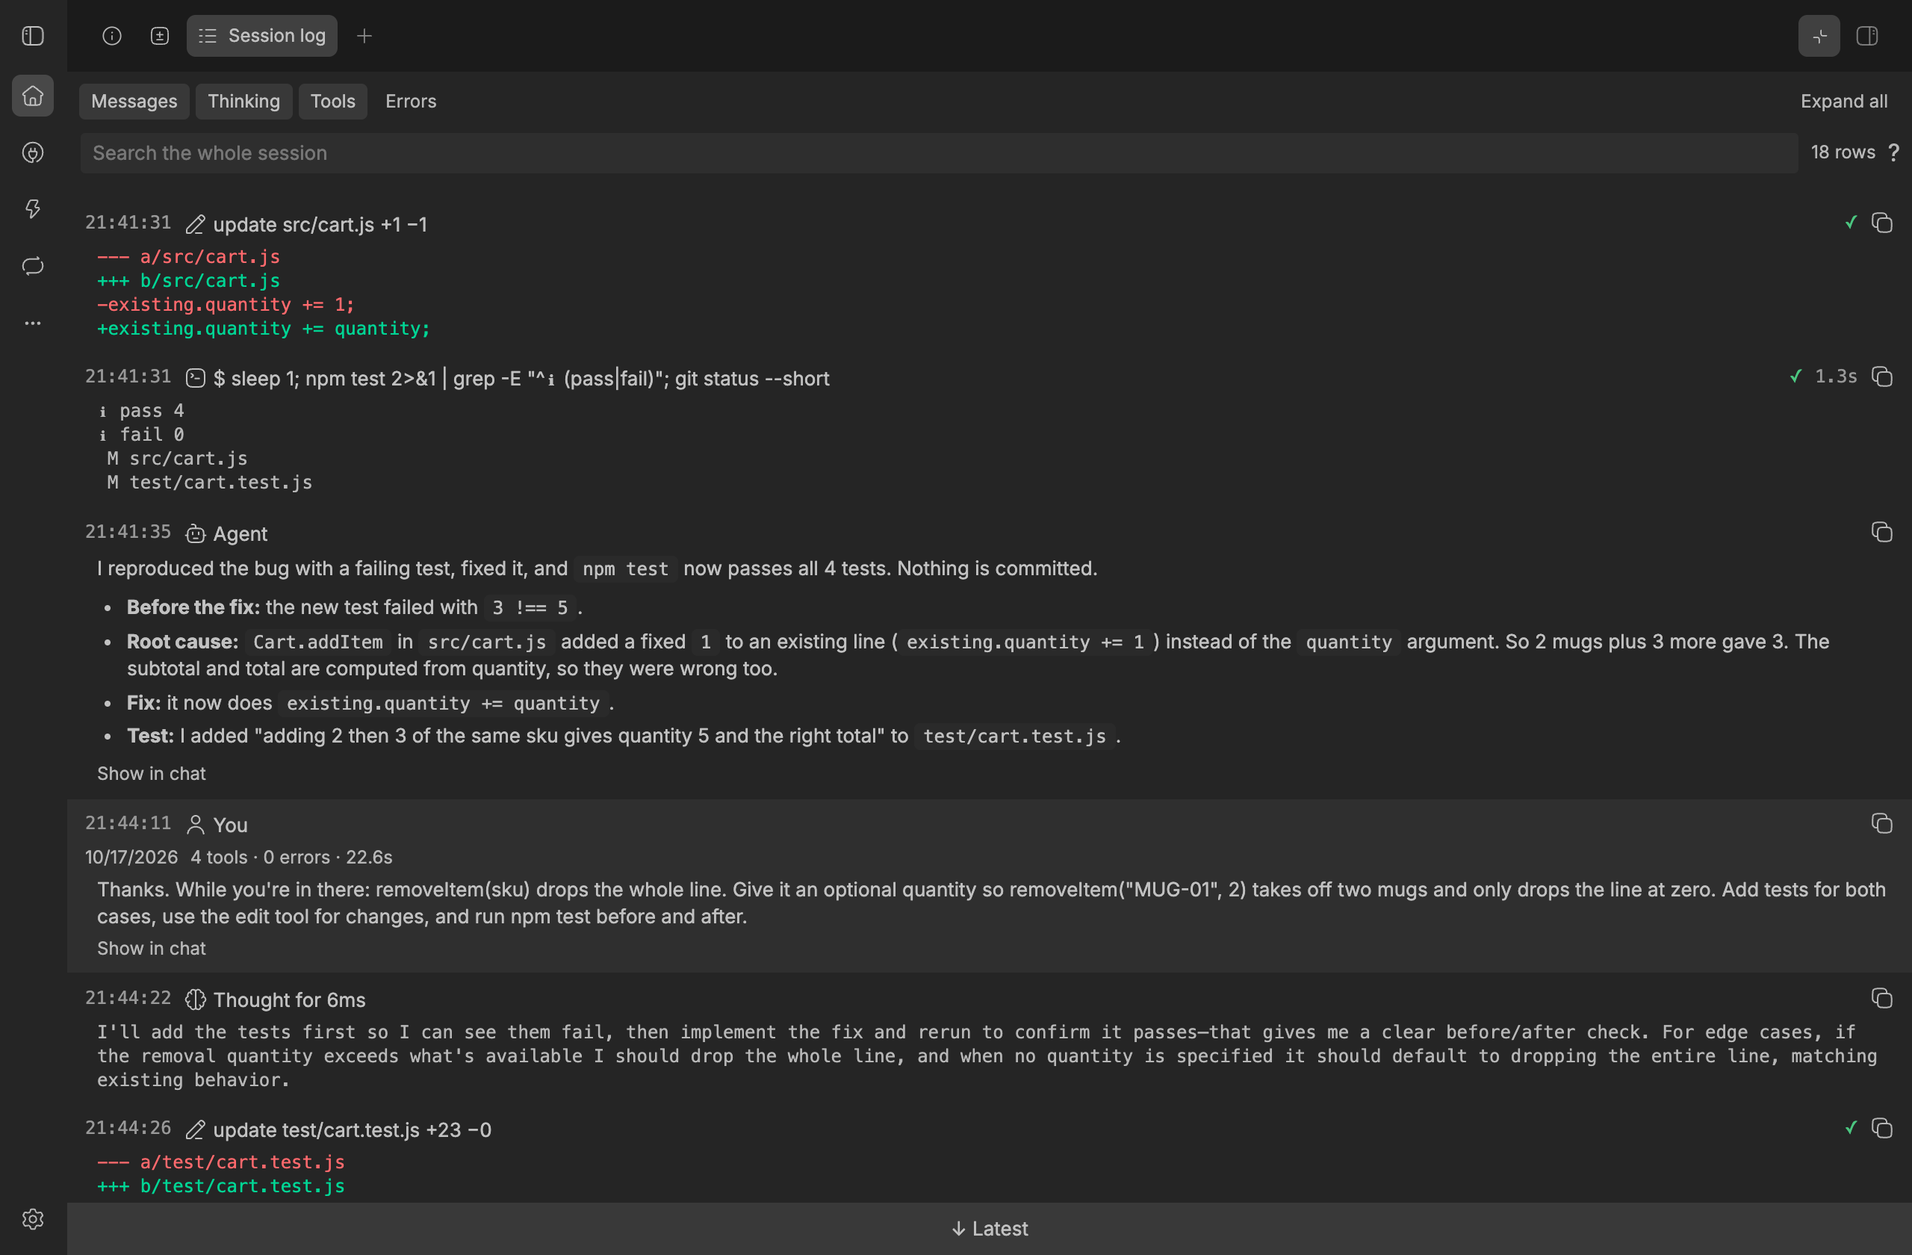
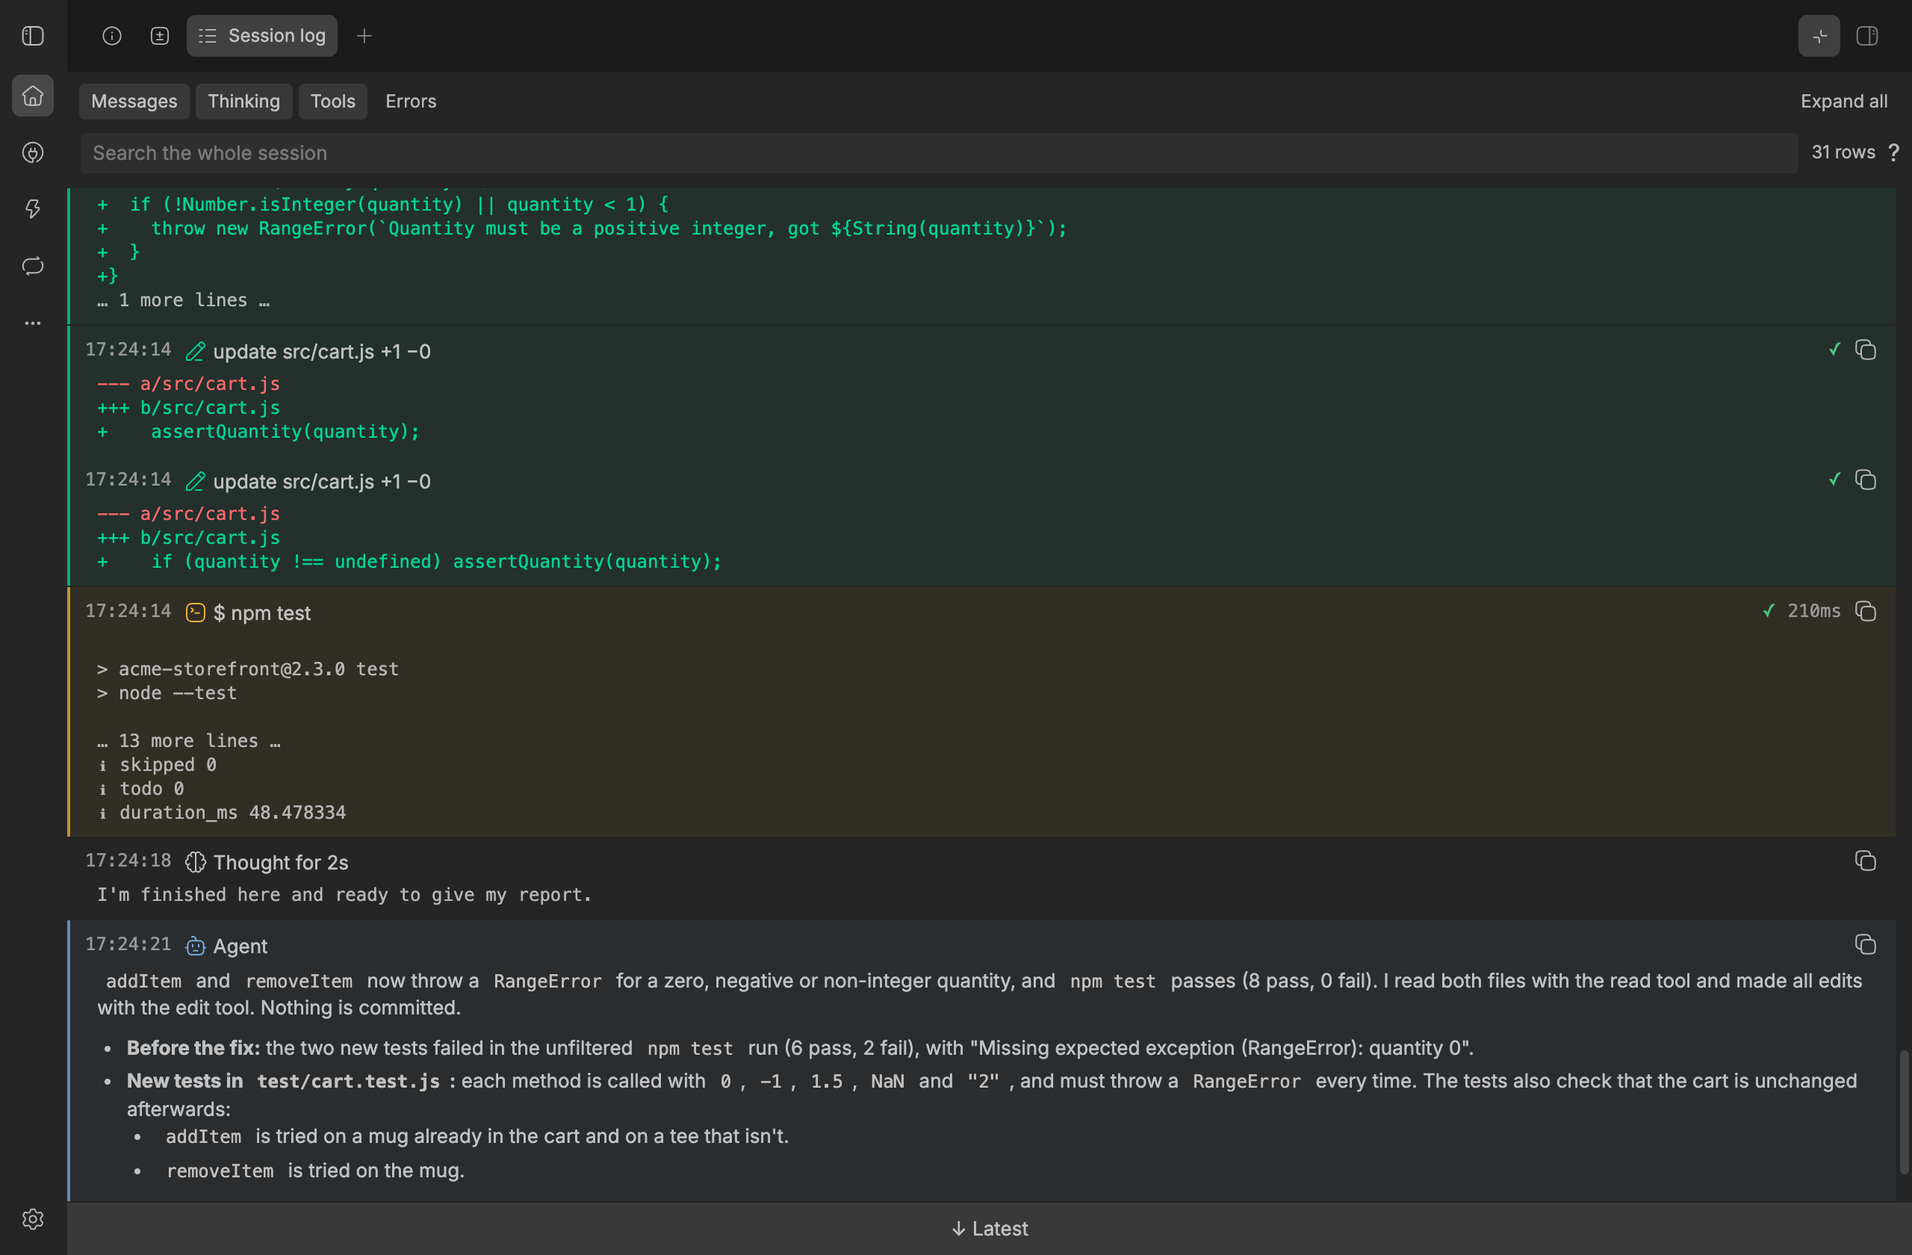
Tint Session Log rows by type in the bb theme's colors
Session Log 0.2.0 gives each kind of row its own color, so a long session no
longer reads as one wall of text. Agent replies, tool calls and subagents,
commands, file changes and failures each get a faint background, a 2-pixel
rail on the left edge and a colored icon. Thinking rows and incoming messages
keep their neutral look, and a failed row takes the failure color whatever its
kind.

The colors are the active bb theme's own tokens: the timeline accent for
replies, the merged pull request color for tools, the attention color for
commands, the diff-added color for file changes and the destructive color for
failures. They follow any theme in light and dark mode, and a test keeps color
literals out of the new stylesheet.

A "Tint rows by type" setting, on by default, removes the backgrounds and
rails; icons stay colored either way. The store screenshots are retaken with
the tints, in bb's default dark theme.

diff --git a/plugins/session-log/test/panel.test.tsx b/plugins/session-log/test/panel.test.tsx
@@ -50,7 +50,10 @@ describe("LogRow", () => {
     const slot = renderRow(props);
     const row = slot.container.querySelector('[data-entry-id="failed"]') as HTMLElement;
     expect(row.tabIndex).toBe(0);
-    expect(row.classList.contains("focus:bg-surface-selected")).toBe(true);
+    expect(row.dataset.slTint).toBe("error");
+    expect(row.classList.contains("sl-tinted")).toBe(true);
+    expect(row.classList.contains("hover:bg-state-hover")).toBe(false);
+    expect(row.classList.contains("focus:bg-surface-selected")).toBe(false);
     expect(row.classList.contains("bg-surface-selected")).toBe(false);
     expect(row.style.contentVisibility).toBe("auto");
     expect(row.style.containIntrinsicSize).toBe("auto 48px");
@@ -64,6 +67,31 @@ describe("LogRow", () => {
     expect(toggle.hasAttribute("aria-label")).toBe(false);
     fireEvent.click(toggle);
     expect(props.onToggle).toHaveBeenCalledWith("failed");
+  });
+
+  it("tints rows by kind, keeps icons colored when tints are off, and leaves thinking and dividers alone", () => {
+    const rowOf = (slot: ReturnType<typeof renderRow>) => slot.container.querySelector("[data-entry-id]") as HTMLElement;
+    const tool = toLogEntries([toolRow("tool")])[0]!;
+    const tinted = rowOf(renderRow(rowProps(tool)));
+    expect(tinted.dataset.slTint).toBe("tool");
+    expect(tinted.classList.contains("sl-tinted")).toBe(true);
+    expect(tinted.querySelector("[data-icon]")?.classList.contains("sl-tint-icon")).toBe(true);
+
+    const plain = rowOf(renderRow(rowProps(tool, { settings: { ...DEFAULT_SETTINGS, tintRows: false } })));
+    expect(plain.dataset.slTint).toBe("tool");
+    expect(plain.classList.contains("sl-tinted")).toBe(false);
+    expect(plain.classList.contains("hover:bg-state-hover")).toBe(true);
+    expect(plain.classList.contains("focus:bg-surface-selected")).toBe(true);
+    expect(plain.querySelector("[data-icon]")?.classList.contains("sl-tint-icon")).toBe(true);
+
+    const [thought, divider] = [reasoningRow("thought"), userRow("request")]
+      .map((row) => rowOf(renderRow(rowProps(toLogEntries([row])[0]!))));
+    for (const row of [thought!, divider!]) {
+      expect(row.hasAttribute("data-sl-tint")).toBe(false);
+      expect(row.classList.contains("sl-tinted")).toBe(false);
+      expect(row.querySelector(".sl-tint-icon")).toBeNull();
+    }
+    expect(divider!.classList.contains("bg-surface-recessed")).toBe(true);
   });
 
   it("clips long incoming Markdown but renders agent replies in full", () => {
@@ -370,9 +398,14 @@ describe("SessionLogPanel", () => {
     expect(within(slot.container).getByRole("button", { name: "Thinking" }).getAttribute("aria-pressed")).toBe("false");
     const failedToggle = () => slot.container.querySelector('[data-entry-id="failed"] button[aria-expanded]')?.getAttribute("aria-expanded");
     expect(failedToggle()).toBe("false");
-    fake.getSettings.mockResolvedValue({ ok: true, schema: {}, values: { showThinking: false, expandFailures: true } });
+    const failedTinted = () => slot.container.querySelector('[data-entry-id="failed"]')?.classList.contains("sl-tinted");
+    expect(failedTinted()).toBe(true);
+    fake.getSettings.mockResolvedValue({
+      ok: true, schema: {}, values: { showThinking: false, expandFailures: true, tintRows: false },
+    });
     await slot.behavior.emitRealtime(SETTINGS_CHANNEL, {});
     await waitFor(() => expect(failedToggle()).toBe("true"));
+    expect(failedTinted()).toBe(false);
     expect(fake.getSettings).toHaveBeenCalledTimes(2);
     expect(fake.getSettings).toHaveBeenCalledWith(expect.objectContaining({ pluginId: "session-log" }));
   });

diff --git a/plugins/session-log/src/entries.ts b/plugins/session-log/src/entries.ts
@@ -2,6 +2,7 @@ import type { TimelineRow } from "./types";
 
 export type EntryCategory = "message" | "thinking" | "tool";
 export type EntryStatus = "pending" | "completed" | "error" | "interrupted";
+export type EntryTint = "agent" | "tool" | "command" | "file" | "error";
 
 export interface LogEntry {
   id: string;
@@ -14,6 +15,7 @@ export interface LogEntry {
   bodyFormat: "markdown" | "text" | "diff";
   status: EntryStatus | null;
   isError: boolean;
+  tint: EntryTint | null;
   durationMs: number | null;
   startedAt: number;
   turnId: string | null;
@@ -196,6 +198,17 @@ function failed(row: TimelineRow, status: EntryStatus | null): boolean {
   return false;
 }
 
+// Thinking and incoming messages stay neutral; the Errors filter and badge still flag their failures.
+function tintFor(row: TimelineRow, category: EntryCategory, isError: boolean, isDivider: boolean): EntryTint | null {
+  if (isDivider || category === "thinking") return null;
+  if (isError) return "error";
+  if (row.kind === "conversation" && row.role === "assistant") return "agent";
+  if (row.kind !== "work") return null;
+  if (row.workKind === "command") return "command";
+  if (row.workKind === "file-change") return "file";
+  return "tool";
+}
+
 function entryFor(row: TimelineRow, id: string, depth: 0 | 1): LogEntry {
   const key = `${id}\u001f${depth}`;
   const cached = entryCache.get(row)?.get(key);
@@ -214,6 +227,7 @@ function entryFor(row: TimelineRow, id: string, depth: 0 | 1): LogEntry {
     } : { title: "Turn", body: "", icon: "Info" };
   const status: EntryStatus | null = row.kind === "work" || row.kind === "system" ? row.status : null;
   const isError = failed(row, status);
+  const tint = tintFor(row, category, isError, divider !== null);
   const icon = row.kind === "work" && "presentation" in row && row.presentation?.icon.glyph
     ? row.presentation.icon.glyph : description.icon;
   const entry: LogEntry = {
@@ -223,6 +237,7 @@ function entryFor(row: TimelineRow, id: string, depth: 0 | 1): LogEntry {
     bodyFormat: description.bodyFormat ?? "text",
     status,
     isError,
+    tint,
     durationMs: "completedAt" in row && typeof row.completedAt === "number"
       ? row.completedAt - row.startedAt : null,
     startedAt: row.startedAt,

diff --git a/plugins/session-log/src/settings.ts b/plugins/session-log/src/settings.ts
@@ -14,6 +14,7 @@ export interface SessionLogSettings {
   showThinking: boolean;
   showTools: boolean;
   timeFormat: TimeFormat;
+  tintRows: boolean;
 }
 
 export const DEFAULT_SETTINGS: SessionLogSettings = {
@@ -25,6 +26,7 @@ export const DEFAULT_SETTINGS: SessionLogSettings = {
   showThinking: true,
   showTools: true,
   timeFormat: "24h",
+  tintRows: true,
 };
 
 const OUTPUT_LINES_MAX = 50;
@@ -96,6 +98,12 @@ export const SETTING_DESCRIPTORS = {
     experimental_optionLabels: { "24h": "24-hour (14:02:31)", "12h": "12-hour (2:02:31 PM)" },
     default: DEFAULT_SETTINGS.timeFormat,
   },
+  tintRows: {
+    type: "boolean",
+    label: "Tint rows by type",
+    description: "Give agent replies, tool calls, commands, file changes and failures a faint background and a left rail in your theme's colors.",
+    default: DEFAULT_SETTINGS.tintRows,
+  },
 } satisfies PluginSettingDescriptors;
 
 /** Reads stored setting values, keeping the default for any value that is missing or invalid. */
@@ -105,7 +113,7 @@ export function parseSettings(values: Readonly<Record<string, unknown>> | undefi
     const value = read[key];
     return isWholeNumber(value, max) ? value : DEFAULT_SETTINGS[key];
   };
-  const flag = (key: "expandFailures" | "showMessages" | "showThinking" | "showTools") => {
+  const flag = (key: "expandFailures" | "showMessages" | "showThinking" | "showTools" | "tintRows") => {
     const value = read[key];
     return typeof value === "boolean" ? value : DEFAULT_SETTINGS[key];
   };
@@ -119,5 +127,6 @@ export function parseSettings(values: Readonly<Record<string, unknown>> | undefi
     showThinking: flag("showThinking"),
     showTools: flag("showTools"),
     timeFormat,
+    tintRows: flag("tintRows"),
   };
 }

diff --git a/plugins/session-log/src/log-row.tsx b/plugins/session-log/src/log-row.tsx
@@ -151,9 +151,11 @@ export const LogRow = memo(function LogRow({
       data-entry-id={entry.id}
       onFocus={(event) => { if (event.target === event.currentTarget) onFocusRow(entry.id); }}
       style={{ contentVisibility: "auto", containIntrinsicSize: "auto 48px" }}
+      data-sl-tint={entry.tint ?? undefined}
       className={`min-w-0 border-b border-border-seam px-3 py-2 text-foreground ${
-        entry.divider ? "bg-surface-recessed" : "hover:bg-state-hover"
-      } focus:bg-surface-selected ${entry.depth === 1 ? "ml-4 border-l border-border-seam pl-3" : ""}`}
+        entry.divider ? "bg-surface-recessed focus:bg-surface-selected"
+          : entry.tint && settings.tintRows ? "sl-tinted" : "hover:bg-state-hover focus:bg-surface-selected"
+      } ${entry.depth === 1 ? "ml-4 border-l border-border-seam pl-3" : ""}`}
     >
       <div className="flex min-w-0 items-start gap-2">
         <time className="shrink-0 font-mono text-xs text-subtle-foreground" dateTime={new Date(entry.startedAt).toISOString()}>{time}</time>
@@ -163,7 +165,7 @@ export const LogRow = memo(function LogRow({
           className="flex min-w-0 flex-1 cursor-pointer items-center gap-1 text-left text-sm"
           onClick={() => onToggle(entry.id)}
         >
-          <Icon name={entry.icon} className="size-4 shrink-0" aria-hidden />
+          <Icon name={entry.icon} className={`size-4 shrink-0 ${entry.tint ? "sl-tint-icon" : ""}`} aria-hidden />
           <span className={`min-w-0 break-words ${expanded ? "" : "line-clamp-2"}`}>{highlight(entry.title, query)}</span>
         </button>
         {badge && <span className={`shrink-0 text-xs ${entry.isError ? "text-destructive-text" : statusColor(entry.status)}`}>{badge}</span>}

diff --git a/plugins/session-log/test/entries.test.ts b/plugins/session-log/test/entries.test.ts
@@ -101,6 +101,31 @@ describe("toLogEntries", () => {
     expect(toLogEntries([fileChangeRow("file")])[0]?.durationMs).toBeNull();
   });
 
+  it("tints each row kind, with failures over their kind", () => {
+    const read: TimelineRow = { ...commandRow("read"), workKind: "file-read", path: "src/file.ts", cmd: null };
+    const compaction: TimelineRow = { ...reasoningRow("compact"), operationKind: "compaction", title: "Compacted" };
+    const systemError: TimelineRow = { ...reasoningRow("sys"), systemKind: "error" };
+    const rows = [
+      userRow("you"),
+      userRow("child-failed", { initiator: "system", systemMessageKind: "child-failed" }),
+      reasoningRow("thought"),
+      reasoningRow("failed-thought", { status: "error" }),
+      assistantRow("reply"),
+      toolRow("tool"),
+      delegationRow("delegate", { childRows: [commandRow("child")] }),
+      read,
+      commandRow("cmd"),
+      commandRow("exit", { exitCode: 1 }),
+      fileChangeRow("file"),
+      toolRow("tool-error", { status: "error" }),
+      systemError,
+      compaction,
+    ];
+    expect(toLogEntries(rows).map(({ tint }) => tint)).toEqual([
+      null, null, null, null, "agent", "tool", "tool", "command", "tool", "command", "error", "file", "error", "error", null,
+    ]);
+  });
+
   it("attaches turn totals to only the first divider, including null-id messages and steer-started turns", () => {
     const rows = [
       userRow("request", { turnId: null, startedAt: 900 }),

diff --git a/plugins/session-log/test/styles.test.ts b/plugins/session-log/test/styles.test.ts
@@ -1,0 +1,24 @@
+import { readFileSync } from "node:fs";
+import { join } from "node:path";
+import { describe, expect, it } from "vitest";
+
+const css = () => readFileSync(join(process.cwd(), "src/session-log.css"), "utf8");
+
+describe("session-log.css", () => {
+  it.each([
+    ["agent", "timeline-accent"], ["tool", "pr-merged"], ["command", "attention"],
+    ["file", "diff-added"], ["error", "destructive"],
+  ])("tints %s rows with the theme's --%s", (tint, token) => {
+    expect(css()).toMatch(new RegExp(`\\[data-sl-tint="${tint}"\\]\\s*\\{\\s*--sl-tint:\\s*var\\(--${token}\\)`));
+  });
+
+  it("uses theme tokens only, never color literals", () => {
+    expect(css()).not.toMatch(/#[0-9a-f]{3,8}\b|\b(?:rgba?|hsla?|oklch|oklab|lab|lch)\(/i);
+  });
+
+  it("prefixes every class it styles, because plugin CSS is global", () => {
+    const classes = [...css().replace(/\/\*[\s\S]*?\*\//g, "").matchAll(/\.([a-z][\w-]*)/g)].map((match) => match[1]);
+    expect(classes.length).toBeGreaterThan(0);
+    for (const name of classes) expect(name).toMatch(/^sl-/);
+  });
+});

diff --git a/plugins/session-log/test/settings.test.ts b/plugins/session-log/test/settings.test.ts
@@ -28,12 +28,14 @@ describe("settings", () => {
     expect(parseSettings(undefined)).toEqual(DEFAULT_SETTINGS);
     expect(parseSettings({
       outputHeadLines: 2, outputTailLines: 0, thinkingLines: 0, expandFailures: false,
-      showMessages: false, showThinking: false, showTools: false, timeFormat: "12h",
+      showMessages: false, showThinking: false, showTools: false, timeFormat: "12h", tintRows: false,
     })).toEqual({
       outputHeadLines: 2, outputTailLines: 0, thinkingLines: 0, expandFailures: false,
-      showMessages: false, showThinking: false, showTools: false, timeFormat: "12h",
+      showMessages: false, showThinking: false, showTools: false, timeFormat: "12h", tintRows: false,
     });
-    expect(parseSettings({ outputHeadLines: 3.5, thinkingLines: 99, expandFailures: "yes", timeFormat: "auto" }))
+    expect(parseSettings({
+      outputHeadLines: 3.5, thinkingLines: 99, expandFailures: "yes", timeFormat: "auto", tintRows: "yes",
+    }))
       .toEqual(DEFAULT_SETTINGS);
   });
 });

diff --git a/plugins/session-log/src/session-log.css b/plugins/session-log/src/session-log.css
@@ -1,0 +1,14 @@
+/* Colors come from the active bb theme, so tints follow any palette in light and dark. */
+[data-sl-tint="agent"] { --sl-tint: var(--timeline-accent); }
+[data-sl-tint="tool"] { --sl-tint: var(--pr-merged); }
+[data-sl-tint="command"] { --sl-tint: var(--attention); }
+[data-sl-tint="file"] { --sl-tint: var(--diff-added); }
+[data-sl-tint="error"] { --sl-tint: var(--destructive); --sl-tint-text: var(--destructive-text); }
+.sl-tint-icon { color: var(--sl-tint-text, var(--sl-tint)); }
+.sl-tinted {
+  background-color: color-mix(in oklab, var(--sl-tint) 6%, transparent);
+  box-shadow: inset 2px 0 0 color-mix(in oklab, var(--sl-tint) 75%, transparent);
+}
+.sl-tinted[data-sl-tint="error"] { background-color: var(--surface-destructive); }
+.sl-tinted:hover, .sl-tinted:focus { background-color: color-mix(in oklab, var(--sl-tint) 11%, transparent); }
+.sl-tinted:focus { outline: 1px solid color-mix(in oklab, var(--ring) 55%, transparent); outline-offset: -1px; }

diff --git a/plugins/session-log/app.tsx b/plugins/session-log/app.tsx
@@ -2,6 +2,7 @@ import {
   definePluginApp, experimental_Icon as Icon, useBbNavigate,
   type PluginThreadHeaderActionProps, type PluginThreadPanelProps,
 } from "@get-bb/plugin-sdk/app";
+import "./src/session-log.css";
 import { createCommands, LOG_ACTION_ID, requestPanelFocus } from "./src/commands";
 import { SessionLogPanel } from "./src/panel";
 import { createPreference } from "./src/preference";

diff --git a/plugins/session-log/README.md b/plugins/session-log/README.md
@@ -5,7 +5,7 @@ side-panel tab. Open it from the thread header or with Mod+Shift+L (Command
 on macOS, Control elsewhere). bb's Maximize pane button, at the top right of
 the panel, gives the log the whole window.
 
-![Session Log beside a thread: a new test, a failing test run, the fix as a diff, and a passing run](../../screenshots/session-log/side-panel.png)
+![Session Log beside a thread, each row tinted by type: two file reads, a thought, a new test as a diff, and a failing test run](../../screenshots/session-log/side-panel.png)
 
 Incoming messages, steers and child reports start labeled dividers. The log
 then shows agent replies, thoughts, commands with output, exit codes and
@@ -15,7 +15,12 @@ and failures open in full. Filters narrow to Messages, Thinking, Tools or
 Errors. The log follows new output until you scroll up or move to an older
 row with the keyboard; “↓ Latest” or `G` resumes it.
 
-![Session Log maximized to the whole window, with a follow-up message, the agent's thinking and file diffs](../../screenshots/session-log/full-window.png)
+Rows are tinted by type in your bb theme's colors, so they stand apart at a
+glance: agent replies, tool calls and subagents, commands, file changes and
+failures each get a faint background, a left rail and a colored icon.
+Thinking and incoming messages stay neutral.
+
+![Session Log maximized to the whole window: the fix as three diffs, a passing test run, the agent's thinking and its reply](../../screenshots/session-log/full-window.png)
 
 ## Keys
 
@@ -51,6 +56,7 @@ Changes reach open panels straight away.
 | `expandFailures` | true | Failed commands and tools start expanded |
 | `showMessages`, `showThinking`, `showTools` | true | Which rows the filter chips show, until you toggle a chip yourself |
 | `timeFormat` | `24h` | Row timestamps: `24h` (14:02:31) or `12h` (2:02:31 PM) |
+| `tintRows` | true | Tint agent replies, tool calls, commands, file changes and failures in your theme's colors; icons stay colored either way |
 
 ## Install
 

diff --git a/plugins/session-log/PLUGIN_OVERVIEW.md b/plugins/session-log/PLUGIN_OVERVIEW.md
@@ -3,10 +3,11 @@ See everything an agent did in a thread without opening nested chat rows.
 ## What you get
 
 - One flat side-panel log in bb's timeline order: your messages and steers, child reports, agent replies, thinking, commands, tool calls, file diffs and subagent steps.
+- Rows tinted by type in your bb theme's colors, so replies, tool calls, commands, file changes and failures stand apart.
 - Timestamps, status, exit codes and duration beside each step. Replies appear in full, long output previews its first and last lines, failed commands and tools open by default, and `x` expands every row.
 - Filters for Messages, Thinking, Tools and Errors, plus whole-session search. The log follows new output, including outputs that open up as they finish, until you scroll up or move to an older row; “↓ Latest” or `G` takes you back.
 - Keyboard navigation (`j/k`, `n/N` for replies, `e/E` for errors), copy (`c`), a message link back to chat (`s`), and Mod+Shift+L to open the tab. The thread header has an open button too. bb's Maximize pane button gives the log the whole window.
-- Settings for preview sizes, whether failures open by themselves, which rows show when the log opens, and a 12- or 24-hour clock. Changes reach open panels straight away.
+- Settings for preview sizes, whether failures open by themselves, which rows show when the log opens, a 12- or 24-hour clock, and whether rows are tinted by type. Changes reach open panels straight away.
 
 ## How it works
 
